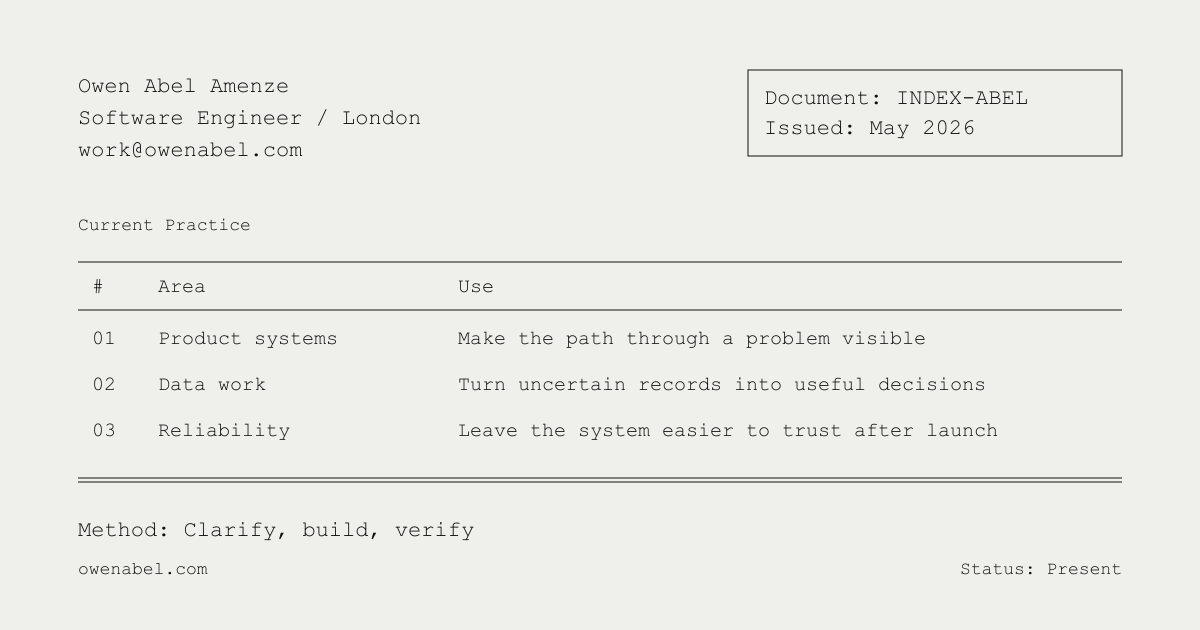
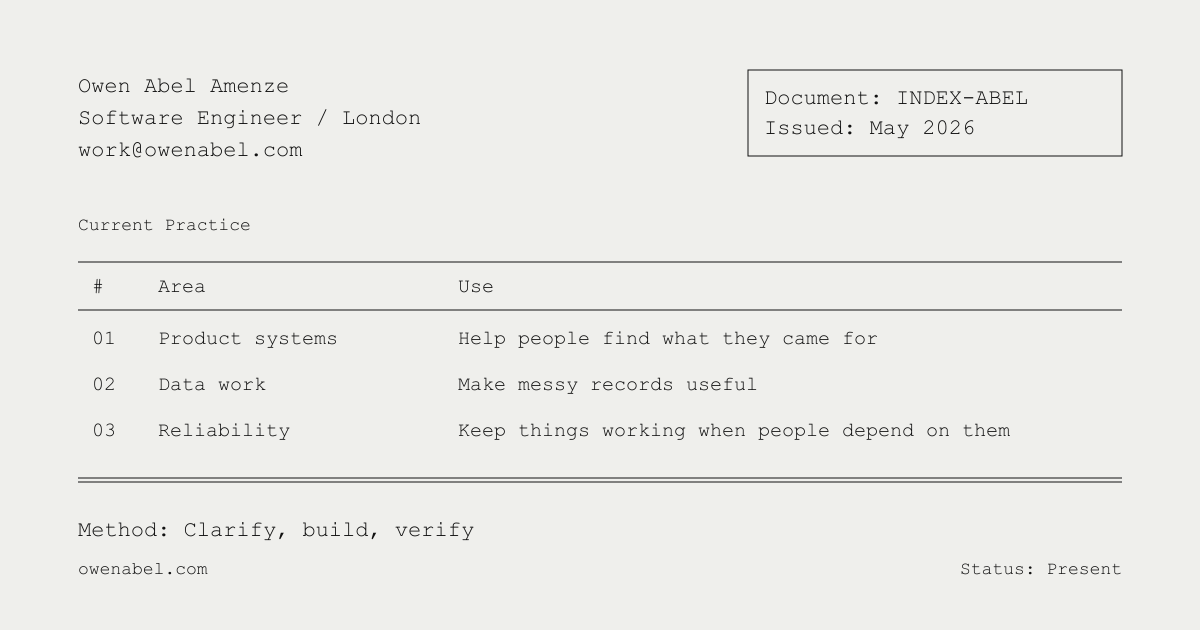
docs/site: refresh engineer introduction and review portfolio content

Changed region(s): [[0.37, 0.6032, 0.8325, 0.6333], [0.4008, 0.6635, 0.8325, 0.6937], [0.37, 0.5127, 0.7708, 0.5429]]

diff --git a/docs/content-review.md b/docs/content-review.md
@@ -1,0 +1,152 @@
+# Portfolio content review — 7 September 2026
+
+The strongest direction is a portfolio about solving problems for people: finding a night out,
+understanding a publishing policy, choosing a beauty provider, and taking part in an event.
+Keep the ledger design and the humour. Make the writing more specific and more recognisably yours.
+
+This review covers all eleven pages, shared copy, work data, social-card source, and the downloadable
+CV's text. Milk & Henny recommendations also draw on its current local implementation and product
+documents. This is an editorial review, not a production audit or verification of historical metrics.
+
+## Applied in this change
+
+The homepage now opens:
+
+> I'm an engineer. That means I solve problems. What kind of problems?
+
+The existing table answers with product systems, data work, and reliability, using concrete
+descriptions. The work introduction becomes:
+
+> A few problems I've worked on, and the systems I built to solve them.
+
+London and the software-engineering role remain in the site header. The default social card uses
+the revised table descriptions. Everything below is a recommendation or draft, not an applied rewrite.
+
+## Project order
+
+Recommend **Fête Finder → Milk & Henny → Jisc → Receipts** for the full work index, with the first
+three featured on the homepage. This presents audience scale, personal initiative and hosting, and
+professional team experience before the deeper Receipts architecture story. For an explicitly
+backend-focused application, Receipts could move up.
+
+The current `getFeaturedWork()` takes the first three entries in `src/data/work.ts`, so Milk & Henny
+is excluded. When changing the order, make its leading case study the events story rather than media.
+No new filtering or data abstraction is necessary for four projects.
+
+## Milk & Henny: the largest change
+
+“A personal archive” now undersells the work. Your account of hosting provides the personal context;
+the repository supports a much broader product: events, tickets, attendee operations, scoring,
+multiplayer games, a Pitch Night studio, galleries, writing, and private transfers.
+
+Suggested project description:
+
+> A platform I build around the events I host: tickets, games, and photos, with tools for the people
+> running the night and the people coming along.
+
+Suggested homepage description:
+
+> Software for the events I host, from tickets and check-in to party games and the photos afterwards.
+
+Suggested overview introduction:
+
+> Milk & Henny started with a familiar request after a party: can you send me the photos? As I began
+> hosting events, the problems grew with them. How do people get in? How do you get a room playing
+> together? Where does everything live afterwards? I build the software around those moments.
+
+Use **2025–26** for the project period. Describe the role as “Builder & host” if that is the title you
+want to use publicly. Avoid inventing attendance, repeat participation, revenue, or adoption figures.
+
+### Recommended three case studies
+
+1. **Running the night** — rewrite the existing operations page, retaining its URL. Follow the guest
+   journey through tickets, arrival, participation, and follow-up. Show the host/staff side alongside
+   it. Choose two concrete engineering decisions and explain their practical consequences. Treat the
+   old guest-list and best-dressed implementation as project history, not the current operating model.
+2. **Games that bring the room together** — add one new case study. Focus on the split between the
+   shared screen, host controls, and player phones; pacing, corrections, and reconnecting; and keeping
+   match results separate from event points. Use one game, such as Family Feud, as the worked example.
+   The catalogue alone is not evidence that every game has been used successfully at an event.
+3. **Keeping the memories** — retain the media URL, update its architecture, and move private transfers
+   here. Tell the original photography story once. Explain previews, originals, publishing, and access
+   through what the recipient or photographer needs to do.
+
+Pitch Night has enough substance for a later fourth case study: local editing, publishing a stable
+edition, and presenting from a phone. For now, give it a short example/link in the events story.
+Three focused stories are easier to navigate than four overlapping feature inventories.
+
+### Confirmed technical drift
+
+| Existing portfolio wording                                           | Current evidence                                                                                                                                                                             | Editorial correction                                                                                    |
+| -------------------------------------------------------------------- | -------------------------------------------------------------------------------------------------------------------------------------------------------------------------------------------- | ------------------------------------------------------------------------------------------------------- |
+| Albums use JSON manifests in Git                                     | `features/media/album-repository.server.ts` reads and writes private object-storage manifests under `albums/_manifests/`                                                                     | Describe the current object-storage model; use Git only when explicitly discussing the earlier version. |
+| Words metadata lives in KV                                           | `features/words/store.server.ts` uses Redis indexes and per-word metadata records                                                                                                            | Name Redis when the storage distinction matters.                                                        |
+| Event tooling centres on guest-list check-in and best-dressed voting | The current events platform spans tickets, attendee access, admission, communications, scoring, and games; the guest-list postmortem explicitly identifies the old implementation as retired | Rewrite the operations narrative rather than appending another paragraph.                               |
+| CV describes a Next.js content platform                              | Current repository describes and implements TanStack Start/Nitro, with events and multiplayer                                                                                                | Update the CV project summary and framework description together.                                       |
+
+Source paths above are relative to `../milkandhenny.com`. Additional reviewed references:
+`features/event-operations/event-page.server.ts`, `features/things/catalog.ts`,
+`features/things/family-feud/family-feud-room-engine.server.ts`, `docs/events-platform.md`,
+`docs/room-first-multiplayer.md`, `docs/pitch-night-platform.md`, and
+`docs/postmortem-guestlist-kv-read-spike.md`.
+
+The room-first standard is especially useful editorially: software should help people play with one
+another. It explicitly distinguishes design intent from observed fun. Do the same in the case study.
+
+## Copy across the rest of the site
+
+| Surface                      | Recommendation                                                                                                                                                                                                                                                          |
+| ---------------------------- | ----------------------------------------------------------------------------------------------------------------------------------------------------------------------------------------------------------------------------------------------------------------------- |
+| Work page                    | Replace “Selected systems, kept deliberately brief.” with “Some problems I've worked on.” Replace “product sense meets technical ambiguity” with a concrete description of your contribution.                                                                           |
+| Work detail labels           | Prefer “Problem”, “My contribution”, and “Result” to “Tension”, “Owned”, and “Signal”. If there is no observed result, label the passage “What it enables”.                                                                                                             |
+| Fête Finder discovery        | Keep the finding/planning/sharing story. Shorten the opening to “I built search, maps, and saved routes to help people turn a city-wide programme into a night out.” Put launch figures in their own sentence with the campaign year.                                   |
+| Fête Finder operations       | Replace repeated “calm” language with the actual pressures: changing listings, submissions, partner schedules, and recovery. Include one concrete example of an edit or recovery path.                                                                                  |
+| Jisc / Open Policy Finder    | Start with the user's task: finding the journal or publisher policy relevant to their research. Replace “massaging records” with “correcting missing and malformed records”. Explain what the content editor could do instead of saying “patched in connection blocks”. |
+| Jisc's second workstream     | The CMS/AWS migration deserves a short, clearly scoped account in the Jisc entry. A separate case study needs a rollout decision and result; another technology list would add little. Preserve the distinction between your work and the team's work.                  |
+| Receipts discovery           | Replace “empty ranking theatre” with “A beauty discovery platform that helps people judge providers using reviews, images, and the source of each claim.” Introduce the consumer problem before taxonomy and ranking terminology.                                       |
+| Receipts platform            | Lead with a failure someone can understand: an upload succeeds but analysis fails, so the work needs visible status and a recovery path. Confirm that example against the current project before using it as a factual before/after.                                    |
+| Contact                      | Replace “A small door, deliberately left open.” with “Got a problem in mind?” Keep the informal invitation; it suits the new opening.                                                                                                                                   |
+| Footer                       | “Available for software engineering work” is clearer than “thoughtful engineering work”, if availability is current. The tiny joke can stay; humour is not the problem with the site.                                                                                   |
+| 404                          | Keep “This page is not in the ledger.” One metaphor is enough; simplify the following explanation to “Check the address, or head back to the work.”                                                                                                                     |
+| Shared case-study navigation | Use “case studies” consistently instead of alternating with “notes”. Make keyboard guidance secondary to reading.                                                                                                                                                       |
+| Metadata and social cards    | Revise the default “clearer, calmer” description alongside the next broader rewrite. Keep titles, project years, and social cards aligned. “Issued: May 2026” can remain an original issue date; use “Updated” if it is meant to indicate freshness.                    |
+
+## Structure: edit before refactoring
+
+The repeated sections currently make different projects sound alike. Keep the visual system, but
+let each page have a shorter narrative: **problem → my contribution → decisions → result → lesson**.
+Use the technical table where it adds information. Avoid explaining the same responsibility in the
+intro, thread selector, ownership table, flow list, and reflection.
+
+The section labels are supplied in each page; changing the layout alone will not rewrite them.
+Do not add a generic content engine just to remove repeated Astro markup. First establish one strong
+Milk & Henny page, then apply only the shared structure that proves useful.
+
+Add one purposeful visual per major story when suitable material exists: a guest/host journey, a
+game's display beside its controller, or an annotated search result. Use actual product screenshots
+or a labelled diagram; do not manufacture event photographs or evidence of use.
+
+## Data and CV checks before the broader rewrite
+
+- **Fête Finder: 3,000+ registrations / 50,000+ unique visitors.** These are consistent between the
+  site and CV, but those are two copies of the same claim. Add the campaign period and retain the
+  analytics source privately. Do not imply every current feature existed at that launch.
+- **Open Policy Finder: roughly 70% to zero.** The case study repeats this without identifying the
+  denominator, checks, or sample. Define those, or use “Worked with the data team to identify and
+  correct missing and malformed records before launch.” Zero observed failures in a defined check
+  is different from a completely error-free dataset.
+- **Receipts architecture.** The case study says Go/ConnectRPC and Postgres queues; the CV describes
+  BullMQ/Redis workers and Better Auth. This may be version drift, not an error in the website. Check
+  the current Receipts repository before choosing which description to update.
+- **CV wording.** Milk & Henny needs the events/games update. Clarify the Hypixel/Dungeon Realms
+  “>60% user satisfaction across 100,000+ concurrent players” claim: survey satisfaction, platform
+  audience, and personal contribution need separate scope. Remove the duplicate separator in the
+  frameworks line. Keep “First Class”; retain “4.0 GPA” only if it is an official or clearly labelled
+  conversion. The CV and site's email addresses differ, which is fine if intentional.
+- **Employment dates.** The Jisc year range is compatible with the CV's April 2023–February 2026.
+  Do not turn it into a present-tense employment claim. Confirm current availability independently.
+- **Milk & Henny outcomes.** The most useful missing material is one actual night: event/date,
+  attendance if recorded, which tools were used, one problem encountered, and what changed for the
+  next event. This would make the story stronger than adding more framework names.
+
+No historical number, employment claim, or event outcome was silently changed in this pass.
